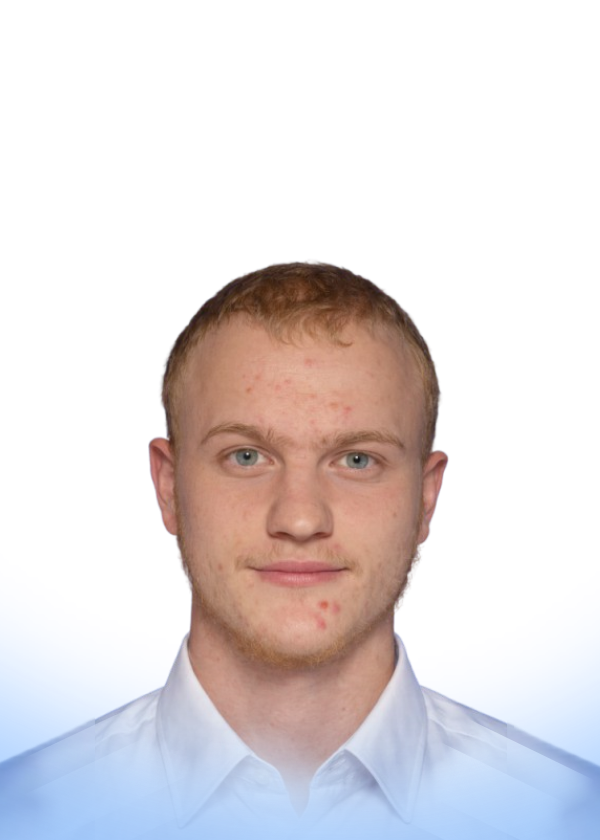
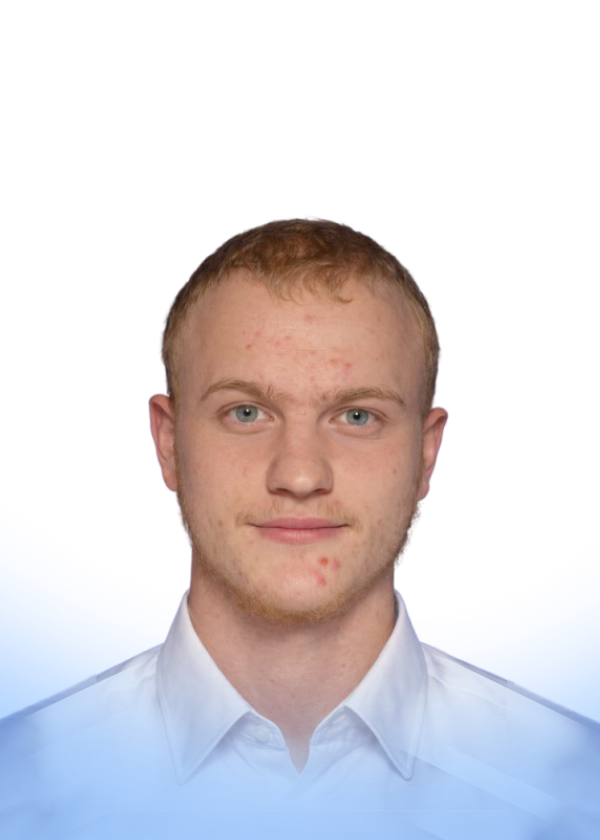
pfp update

Changed region(s): [[0.0, 0.2476, 1.0, 0.9595], [0.87, 0.9905, 0.93, 1.0]]

diff --git a/components/split-blue-section.tsx b/components/split-blue-section.tsx
@@ -29,8 +29,8 @@ export default function SplitBlueSection() {
 
     const teamMembers: TeamMember[] = translatedMembers.map((member) => ({
         ...member,
-        avatarUrl: member.name === "Jernej Peternel" ? "/team/2.png" : "/team/1.png",
-        miniAvatarUrl: member.name === "Jernej Peternel" ? "/team/2.png" : "/team/1.png",
+        avatarUrl: member.name === "Jernej Peternel" ? "/team/2.png" : "/team/ozbolt-klemencic.png",
+        miniAvatarUrl: member.name === "Jernej Peternel" ? "/team/2.png" : "/team/ozbolt-klemencic.png",
         status: "Online"
     }))
 
